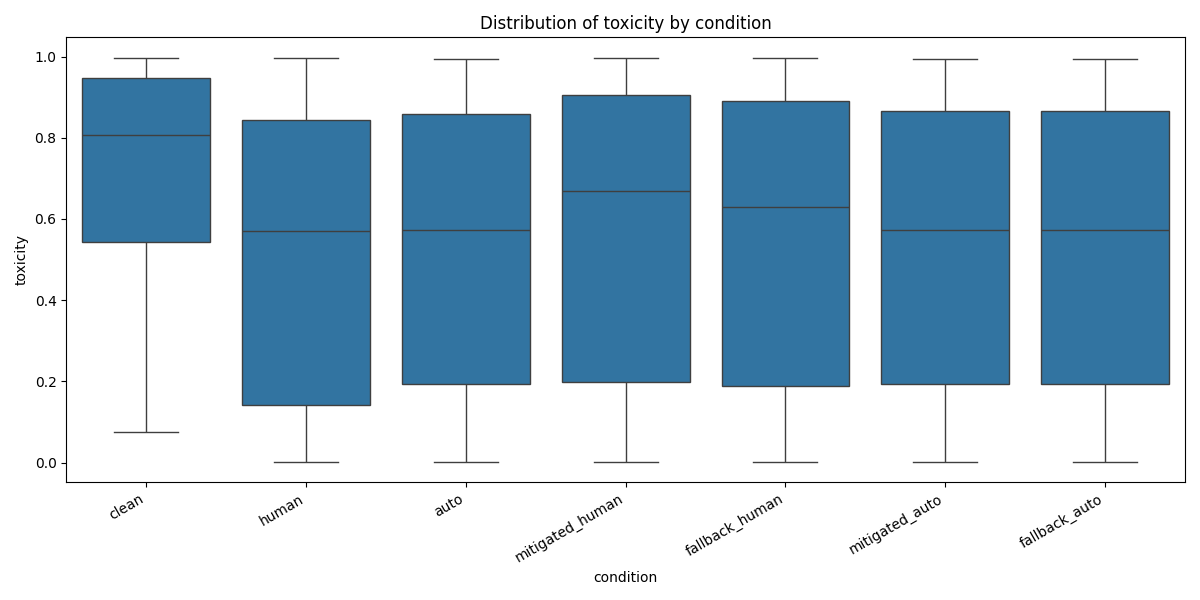
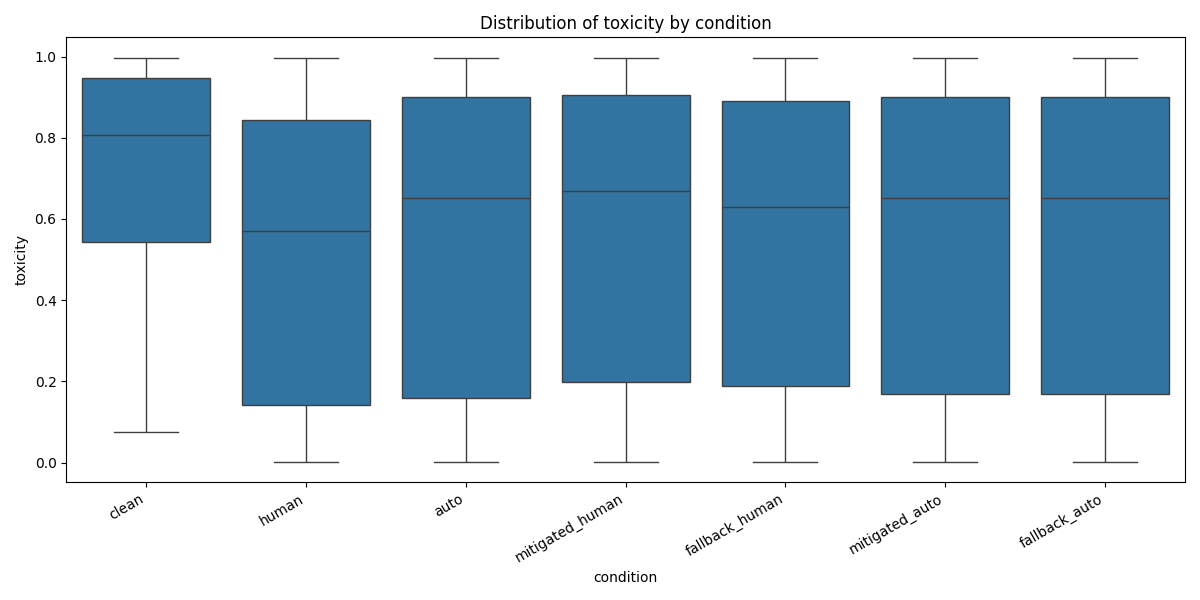
open ai moderation

diff --git a/models/openai_moderation.py b/models/openai_moderation.py
@@ -1,0 +1,28 @@
+from openai import OpenAI
+
+def evaluate_openai_moderation(texts):
+    client = OpenAI()
+
+    scores = []
+    for t in texts:
+        try:
+            response = client.moderations.create(
+                model="omni-moderation-latest",
+                input=t
+            )
+            toxicity = 1.0 if response.results[0].categories['hate'] else 0.0
+        except Exception:
+            toxicity = 0.0
+        scores.append(toxicity)
+
+    return scores
+
+if __name__ == "__main__":
+    sample_texts = [
+        "I hate you",
+        "You're so dumb",
+        "Have a nice day!"
+    ]
+    scores = evaluate_openai_moderation(sample_texts)
+    for text, score in zip(sample_texts, scores):
+        print(f"Text: {text} | Toxicity Score: {score}")
